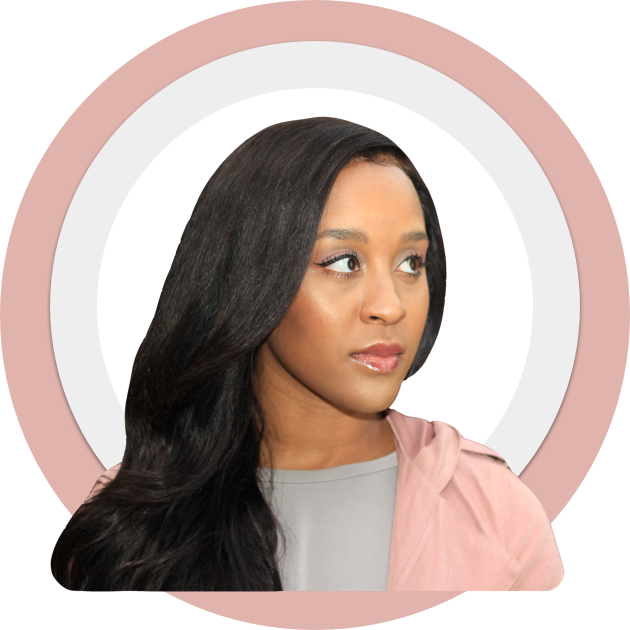
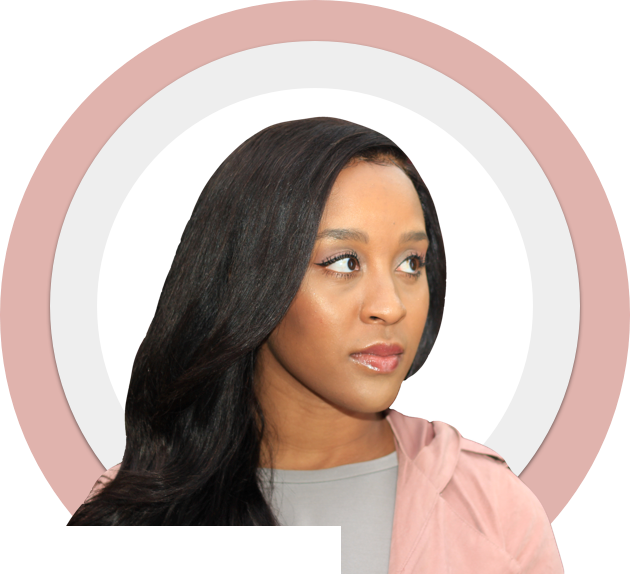
nav problem

diff --git a/css/styles.css b/css/styles.css
@@ -1,48 +1,112 @@
-html, body{
+ html, body{
   overflow-x: hidden;
-  background-color: #FAF5ED;
-}
-h1 {
+ }
+
+/*HEADER*/
+ header {
+  background: #F4E9E7;
+  height: 679px;
+  width: 100%
+  }
+ header nav .top-navigation {
+   height: 601px;
+   width: 100%;
+   background: #F4E9E7;
+ }
+ header nav .top-nav {
+  background: #FAF5ED;
+  height: 84px;
+ }
+ header nav .logo{
+   position: absolute;
+ }
+ header nav ul {
+  margin:0;
+  text-align: center;
+  position: absolute;
+ }
+ header nav ul > li {
+  font-size: 18px;
+  list-style-type: none;
+  display: inline;
+  margin:0 28px;
+ }
+ header nav ul > li > a {
+  color:#D99D53;
+  text-decoration: none;
+ }
+ header nav ul > li.btn-outline:hover > a {
+   color:#E0B3AD;
+ }
+ header .left-info{
+  background: #FFFFFF;
+  width: 20%;
+  height: 105px;
+  text-align: center;
+ }
+ header .left-info h1 {
+   font-size:70px;
+   font-weight: normal;
+   margin:95px 0 0;
+   color: #000000;
+ }
+ header .left-info h3 {
+   font-size: 28px;
+   line-height: 10px;
+   font-weight: medium;
+   color: #D99D53;
+   margin:5px 0 40px;
+ }
+ header .social-media {
+   background: #FFFFFF;
+   width: 10%;
+   height: 40px;
+   margin:20px 0 40px;
+ }
+ header .main-pic{
+
+ }
+
+ /*FONT SIZE/TYPE*/
+ h1 {
 font-family: 'Montserrat', sans-serif;
 font-size: 70px;
 }
-h2{
+ h2{
   font-family: 'Cormorant Garamond', serif;
   font-size: 40px;
 }
-h3{
+ h3{
   font-family: 'Cormorant Garamond', serif;
   font-size: 28px;
+  font-weight: 100;
 }
-p{
+ p{
   font-family: 'Montserrat', sans-serif;
   font-size: 18px;
 }
-li{
+ li{
   font-family: 'Montserrat', sans-serif;
   font-size: 20px;
-
 }
-ul.top-stuff{
+ ul.top-stuff{
   font-family: 'Montserrat', sans-serif;
   font-size: 18px;
   color: #D99D53;
 }
-li.Design-Container, li.Software-Container, li.Languages-Container{
+ li.Design-Container, li.Software-Container, li.Languages-Container{
   font-family: 'Montserrat', sans-serif;
   font-size: 20px;
-
 }
-
-ul.Design-Skills, ul.Software-Types, ul.Language-Types{
+ ul.Design-Skills, ul.Software-Types, ul.Language-Types{
   font-family: 'Montserrat', sans-serif;
   font-size: 18px;
 }
-
-btn-outline{
+ btn-outline{
   color:#D99D53;
 }
 
+/*PROJECT ONE*/
 .Project1 {
   height: 458px;
 }
@@ -64,6 +128,7 @@ btn-outline{
   margin: 40px 0 40px -10px;
 }
 
+/*PROJECT TWO*/
 .Project2 {
   height: 458px;
 }
@@ -83,7 +148,7 @@ btn-outline{
   margin: 50px 0px 50px -70px;
 }
 
-
+/*PROJECT THREE*/
 .Project3{
   height: 458px;
 }
@@ -99,8 +164,7 @@ btn-outline{
   width: 40%;
   background: #E7E1D3;
 }
-
-
+/*ABOUT ME & SKILLS SECTION*/
 .Profile-and-Skills{
   height:675px;
 }
@@ -118,6 +182,7 @@ btn-outline{
   margin-top: -30px;
 }
 
+/*DESIGN ELEMENT ARROWS*/
   .design-element{
     float: right;
   }

diff --git a/index.html b/index.html
@@ -15,33 +15,48 @@
 
 <body>
 
-<!---HERO---->
+<!--HERO-->
 <header>
-  <nav class="container">
-    <div class="one-half">
+  <!--NAVIGATION-->
+  <nav class="top-navigation">
+    <section class="top-nav">
+     <div class="logo">
       <a href="index.html" class="site-logo"><img src="siteimages/site-logo.png" atl="Kmills" /></a>
-    </div>
-    <div class="one-half">
-      <ul class="top-stuff">
-        <li><a href="about.html">about</a></li>
-        <li><a href="portfolio.html">portfolio</a></li>
-        <li><a href="designprocess.html">design process</a></li>
-        <li><a href="forfun.html">for fun</a></li>
-        <li><a href="contact.html">contact</a></li>
+     </div>
+      <ul>
+        <li class="btn-outline"><a href="about.html">about</a></li>
+        <li class="btn-outline"><a href="portfolio.html">portfolio</a></li>
+        <li class="btn-outline"><a href="designprocess.html">design process</a></li>
+        <li class="btn-outline"><a href="forfun.html">for fun</a></li>
+        <li class="btn-outline"><a href="contact.html">contact</a></li>
       </ul>
-    </div>
-  </nav>
-  <div class="container hero">
+     </section>
+ </nav>
+
+ <!--HERO INFO-->
+  <div class="hero">
+   <section class="left-info">
     <h1>hello</h1>
     <h3>I'm Katie Milligan</h3>
-      <div class="social media">
-        <img src="siteimages/Facebook.png" alt="Facebook" />
-        <img src="siteimages/Instagram.png" alt="Instragram" />
-        <img src="siteimages/Linkedin.png" alt="Linkedin" />
-        <img src="siteimages/Dribbble.png" alt="Dribbble" />
-      </div>
-    <img src="siteimages/site-pic.png" alt="Portfolio" />
+   </section>
+   <section class="social-media">
+    <a href="https://www.facebook.com/Katie0727">
+     <img src="siteimages/Facebook.png" alt="Facebook">
+    </a>
+    <a href="https://www.instagram.com/knmills_/">
+     <img src="siteimages/Instagram.png" alt="Instragram" />
+    </a>
+    <a href="https://dribbble.com/k_mills">
+     <img src="siteimages/Dribbble.png" alt="Dribbble" />
+    </a>
+    <a href="https://www.linkedin.com/in/katie-milligan-66986313b/">
+     <img src="siteimages/Linkedin.png" alt="Linkedin" />
+    </a>
+ </section>
+    <div class="main-pic">
+      <img src="siteimages/site-pic.png" alt="Portfolio" style="width:630px;height:572px;" />
     </div>
+  </div>
 </header>
 
 <!---PROJECT SECTION--->
